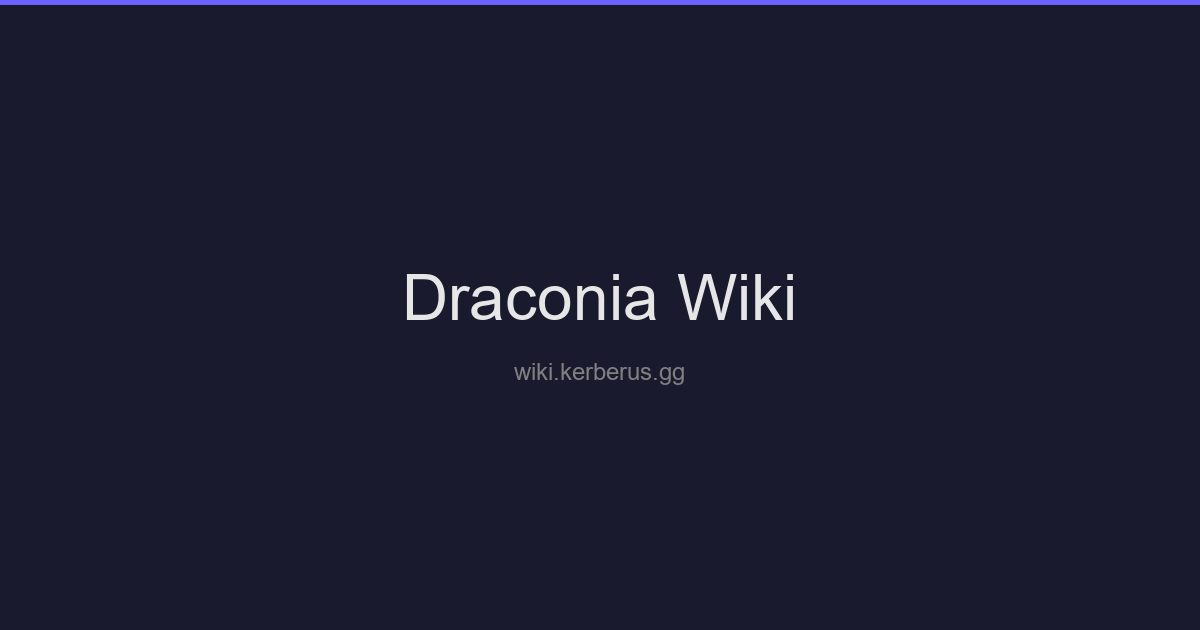
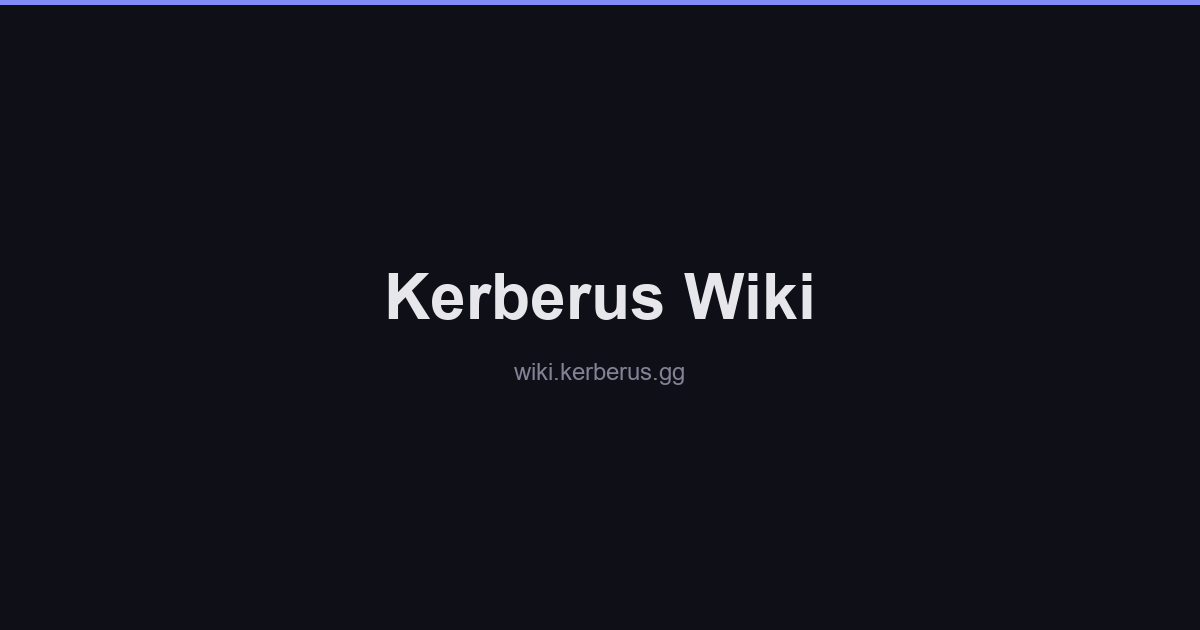
feat(brand): rebrand Draconia to Kerberus
- Site name, hero, OG meta, banner, README
- Discord invite URL unchanged (discord.gg/draconia)

Changed region(s): [[0.0, 0.0, 1.0, 0.0302], [0.3083, 0.4222, 0.6783, 0.5127]]

diff --git a/overrides/main.html b/overrides/main.html
@@ -2,11 +2,11 @@
 
 {% block extrahead %}
   <meta property="og:type" content="website">
-  <meta property="og:title" content="{{ page.title }} - Draconia Wiki">
-  <meta property="og:description" content="Wiki hub for Draconia Minecraft modpacks - Dragoncraft, Toothless, and PvZ Overgrowth.">
+  <meta property="og:title" content="{{ page.title }} - Kerberus Wiki">
+  <meta property="og:description" content="Wiki hub for Kerberus Minecraft modpacks - Dragoncraft, Toothless, and PvZ Overgrowth.">
   <meta property="og:image" content="https://wiki.kerberus.gg/assets/images/og-banner.png">
   <meta property="og:url" content="{{ page.canonical_url }}">
-  <meta property="og:site_name" content="Draconia Wiki">
+  <meta property="og:site_name" content="Kerberus Wiki">
   <meta name="twitter:card" content="summary_large_image">
   <meta name="theme-color" content="#1a1a2e">
 {% endblock %}

diff --git a/docs/stylesheets/custom.css b/docs/stylesheets/custom.css
@@ -1,5 +1,5 @@
 /* ===================================================================
-   DRACONIA WIKI — MODERN THEME
+   KERBERUS WIKI — MODERN THEME
    Inspired by GitBook / Linear / Notion dark modes
    =================================================================== */
 

diff --git a/README.md b/README.md
@@ -1,3 +1,16 @@
-# Draconia Wiki
+# Kerberus Wiki
 
-Public wiki hub for Draconia modpacks. Live at [wiki.perz.dev](https://wiki.perz.dev).
+Public wiki hub for Kerberus modpacks. Live at [wiki.kerberus.gg](https://wiki.kerberus.gg).
+
+## Contributing
+
+Click the pencil icon on any wiki page to edit it on GitHub, then submit a pull request. Pages are plain Markdown in `docs/`.
+
+## Local Development
+
+```bash
+pip install -r requirements.txt
+mkdocs serve
+```
+
+Site auto-deploys to GitHub Pages on push to `master`.

diff --git a/docs/dragoncraft/index.md b/docs/dragoncraft/index.md
@@ -2,6 +2,6 @@
 
 <img src="/assets/images/modpacks/kb-img-dragoncraft.png" width="96" style="border-radius: 0.5rem; float: right; margin-left: 1rem;">
 
-Draconia's flagship modpack — dragons, dungeons, and epic loot.
+Kerberus' flagship modpack - dragons, dungeons, and epic loot.
 
 [:fontawesome-solid-download: Get the Modpack](https://www.curseforge.com/minecraft/modpacks/dragoncraft){ .md-button } [:fontawesome-brands-discord: Join Discord](https://discord.gg/draconia){ .md-button .md-button--primary }

diff --git a/docs/index.md b/docs/index.md
@@ -96,7 +96,7 @@ a.discord-banner:hover {
 </style>
 
 <div class="hero">
-  <h1>Draconia</h1>
+  <h1>Kerberus</h1>
   <p>Minecraft modpack wiki hub</p>
 </div>
 
